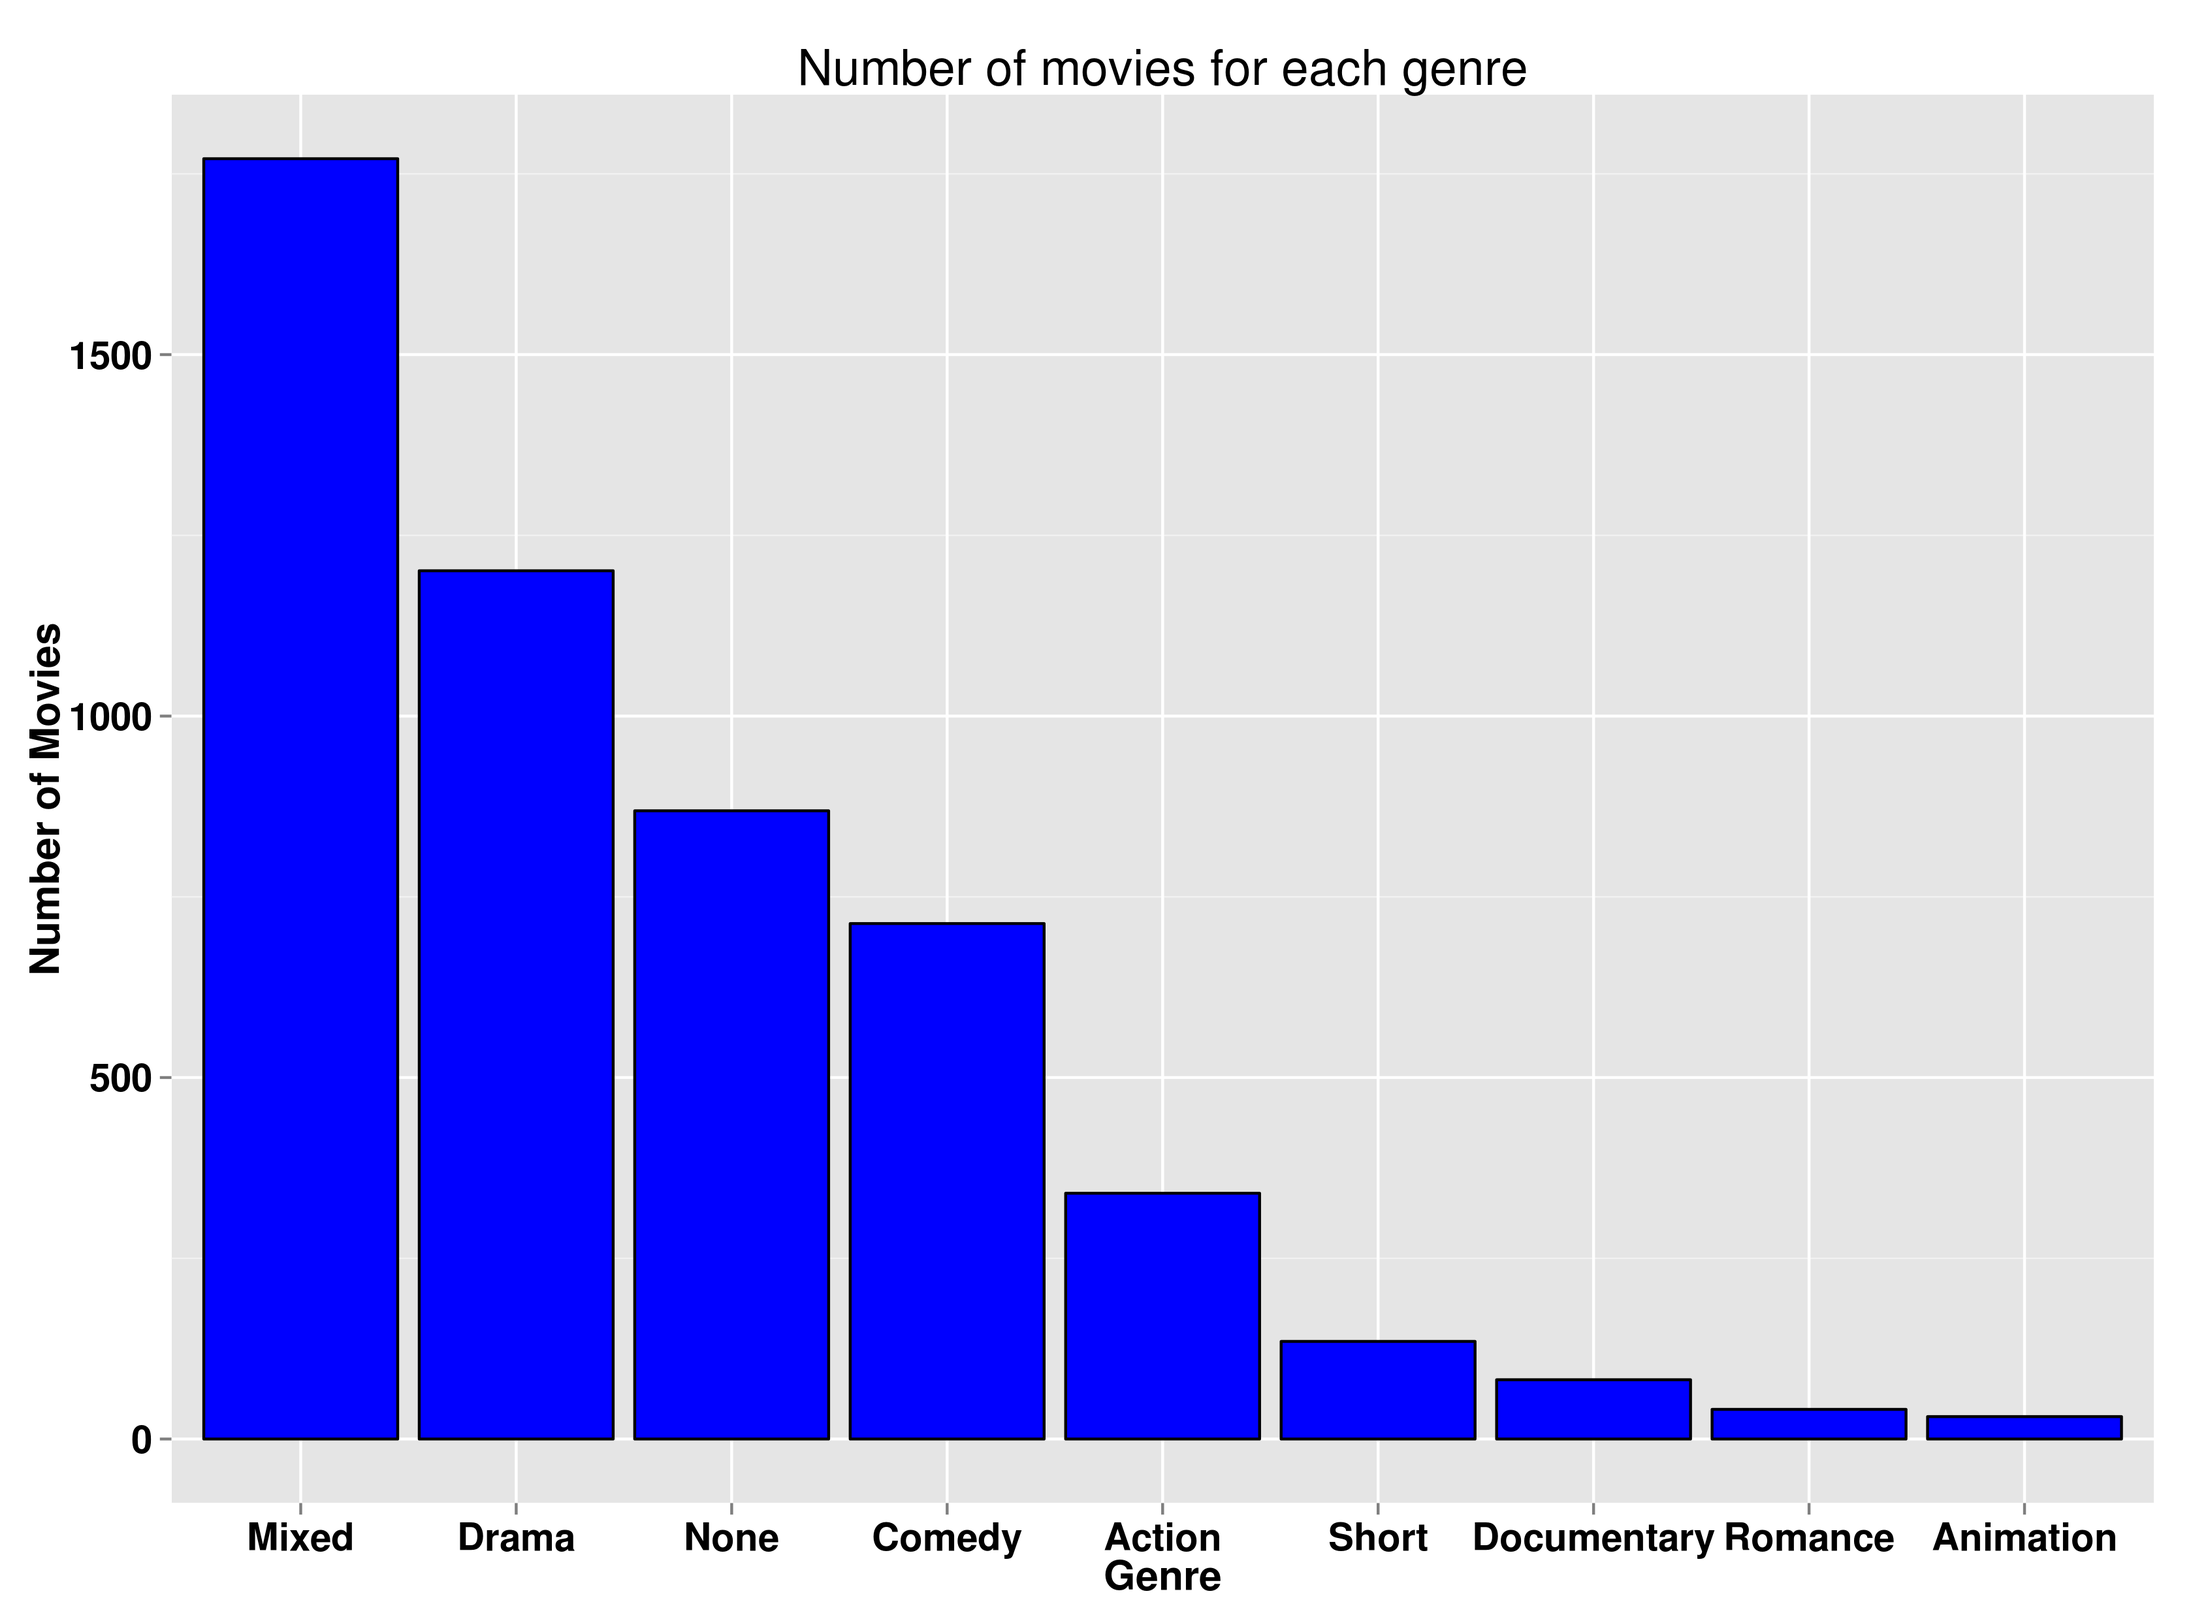
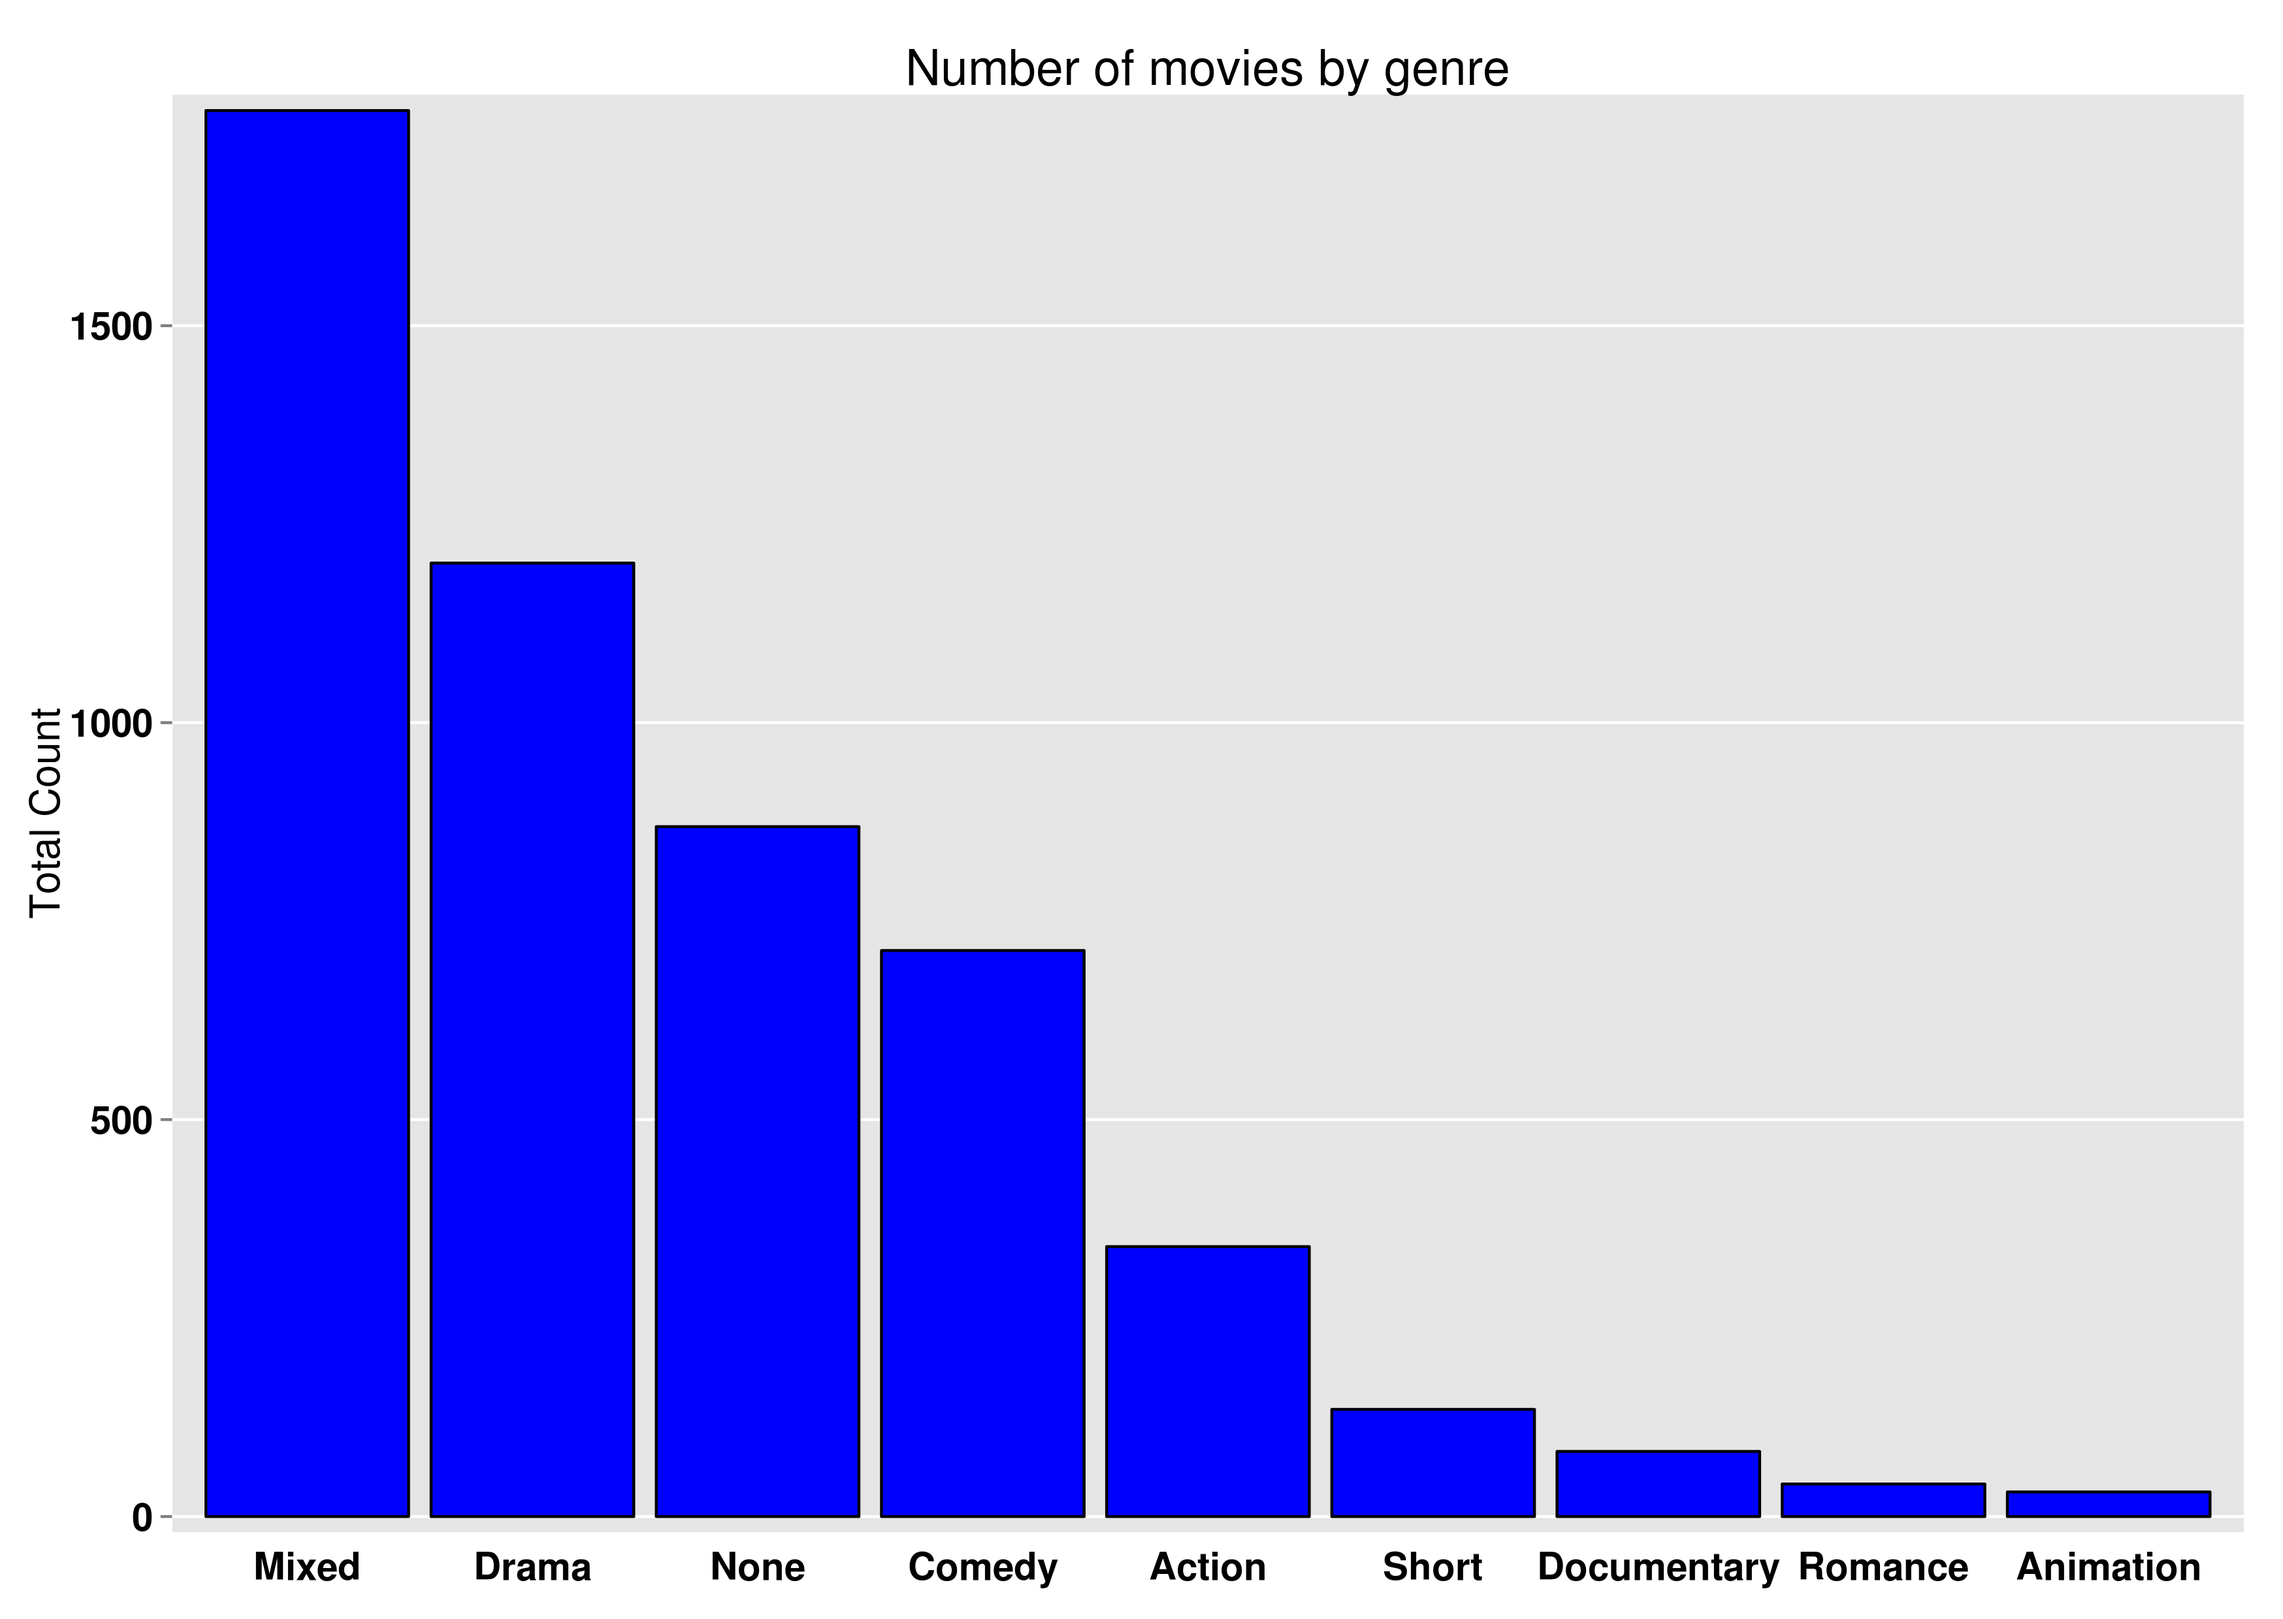
made few changes

diff --git a/homework1/README.md b/homework1/README.md
@@ -25,34 +25,28 @@ This will generate 4 images. See below for details.
 ## Discussion ##
 
 
-
-```R
-
-```
-
-Plot 1
+### Plot 1 ###
 
 ![IMAGE](hw1-scatter.png)
 
-In the above plot, I changed the colour of the text of the axes to black colour because the default grey colour is very light. I also increased the size of the axis, legend and made it bold.
-I also converted the actual budget into budget in millions to increase the readability of the graph. I used the colour brewer package to change colour of the various genre of the movies.
+In the above plot, I changed the color of the text of the axes to black because the default grey color is very light. I also increased the size of the axis and the legend, and made it bold. The budget is represented in millions to increase the readability of the graph. I used color blind friendly colors to depict the genre of the movies. 
 
-Plot 2
+### Plot 2 ###
 
 ![IMAGE](hw1-bar.png)
 
-I rearranged the genres in the decreasing order of their frequency to display the comparison between genres effectively. I filled the bars with blue colour and outlined it with black. I increase the size of the axes and title and changed the colour to black.
+I rearranged the genres in the decreasing order of their frequency to display the comparison between genres effectively. I filled the bars with blue color and outlined it with black to make it pleasing. I also increased the size of the axis and the legend, and made it bold similar to plot 1. I removed the ticks on the x axes as they are not useful in a bar chart. 
 
-Plot 3
+### Plot 3 ###
 
 ![IMAGE](hw1-multiples.png)
 
-I converted the actual budget into budget in millions to increase the readability of the graph. and I changed the colour of the graph to blue to be consistent with my previous graph. I also removed the legend because it was redundant as the title on each small plot is representative of its genre. I used strip.text.x feature to increase the size and colour of the genres titles. I increased the sizes of the legend, title and axes in order to increase the readability.
+I converted the actual budget column into a new column budget in millions to increase the readability of the graph. and I changed the color of the graph to blue to be consistent with my previous graph. I also removed the legend because it was redundant as the title on each small plot is representative of its genre. I used strip.text.x feature to increase the size and color of the genres titles. I increased the sizes of the legend, title and axes in order to increase the readability.
 
-Plot 4
+### Plot 4 ###
 
 ![IMAGE](hw1-multiline.png)
 
-In order to plot charts, I melted the data to have a column which contains all the index labels and time element and used ggplot color attribute to draw multiple lines.
+In order to multiline plot charts, I converted the data using melt command from reshape library to have a column which contains all the index labels and time element and used ggplot color attribute to draw multiple lines.
 I changed the x axis to show all the years present in the data. I increased the sizes of the legend, title and axes in order to increase the readability.
 
